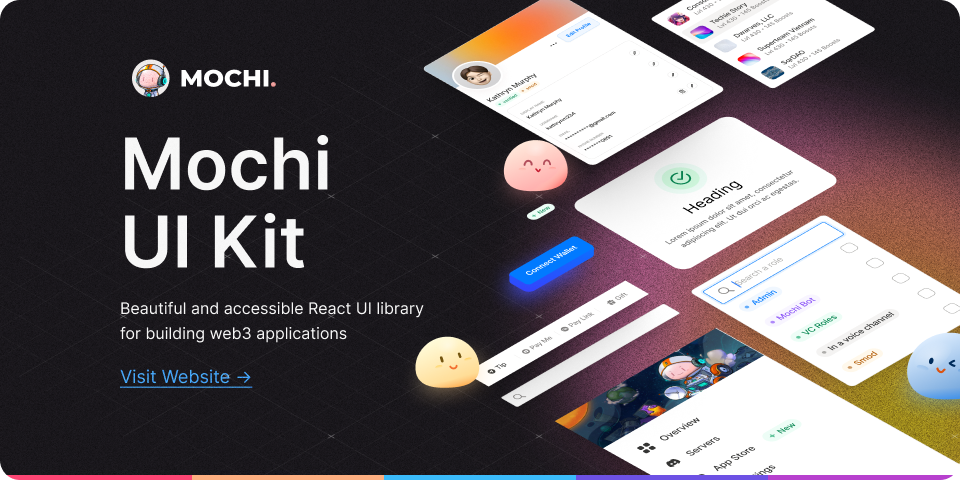
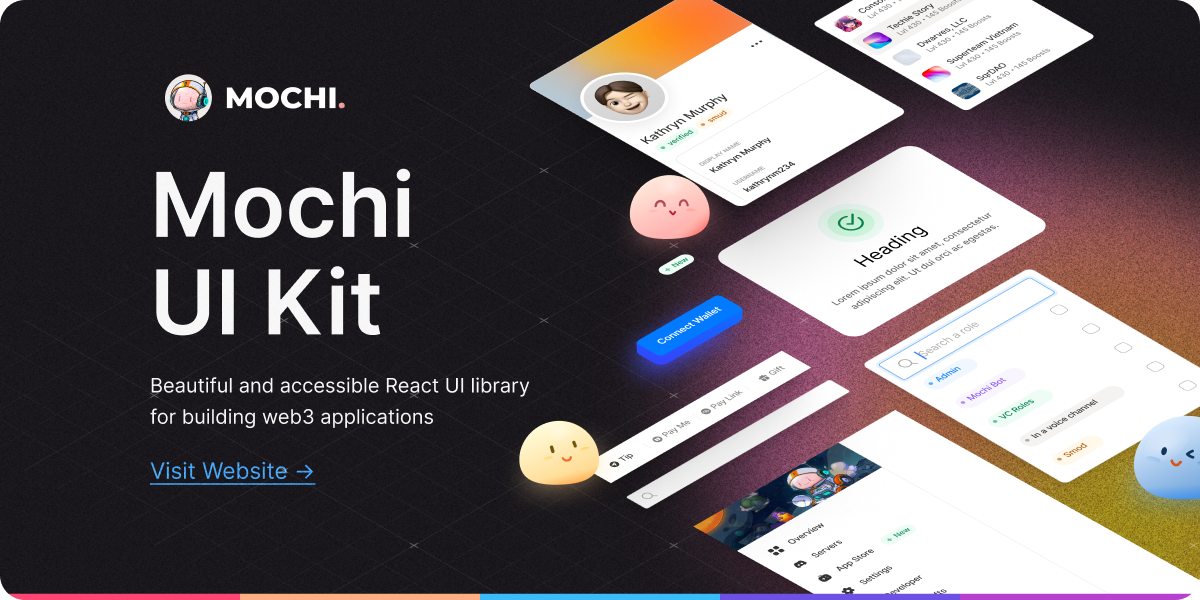
feat: use bigger og image and handle focus visible

diff --git a/pages/_app.tsx b/pages/_app.tsx
@@ -1,8 +1,18 @@
 import '@/styles/globals.css'
 import type { AppProps } from 'next/app'
 import PlausibleProvider from 'next-plausible'
+import { useEffect } from 'react'
 
 export default function App({ Component, pageProps }: AppProps) {
+  useEffect(() => {
+    async function loadExternalScript() {
+      // @ts-ignore
+      await import('focus-visible')
+    }
+
+    loadExternalScript()
+  }, [])
+
   return (
     <PlausibleProvider domain="mochiui.com">
       <Component {...pageProps} />

diff --git a/styles/globals.css b/styles/globals.css
@@ -34,3 +34,12 @@ body footer > div {
   /* Horizontal scrollbar */
   height: 0;
 }
+
+/*
+  This will hide the focus indicator if the element receives focus via the mouse,
+  but it will still show up on keyboard focus.
+*/
+.js-focus-visible :focus:not(.focus-visible) {
+  outline: none !important;
+  box-shadow: none !important;
+}
